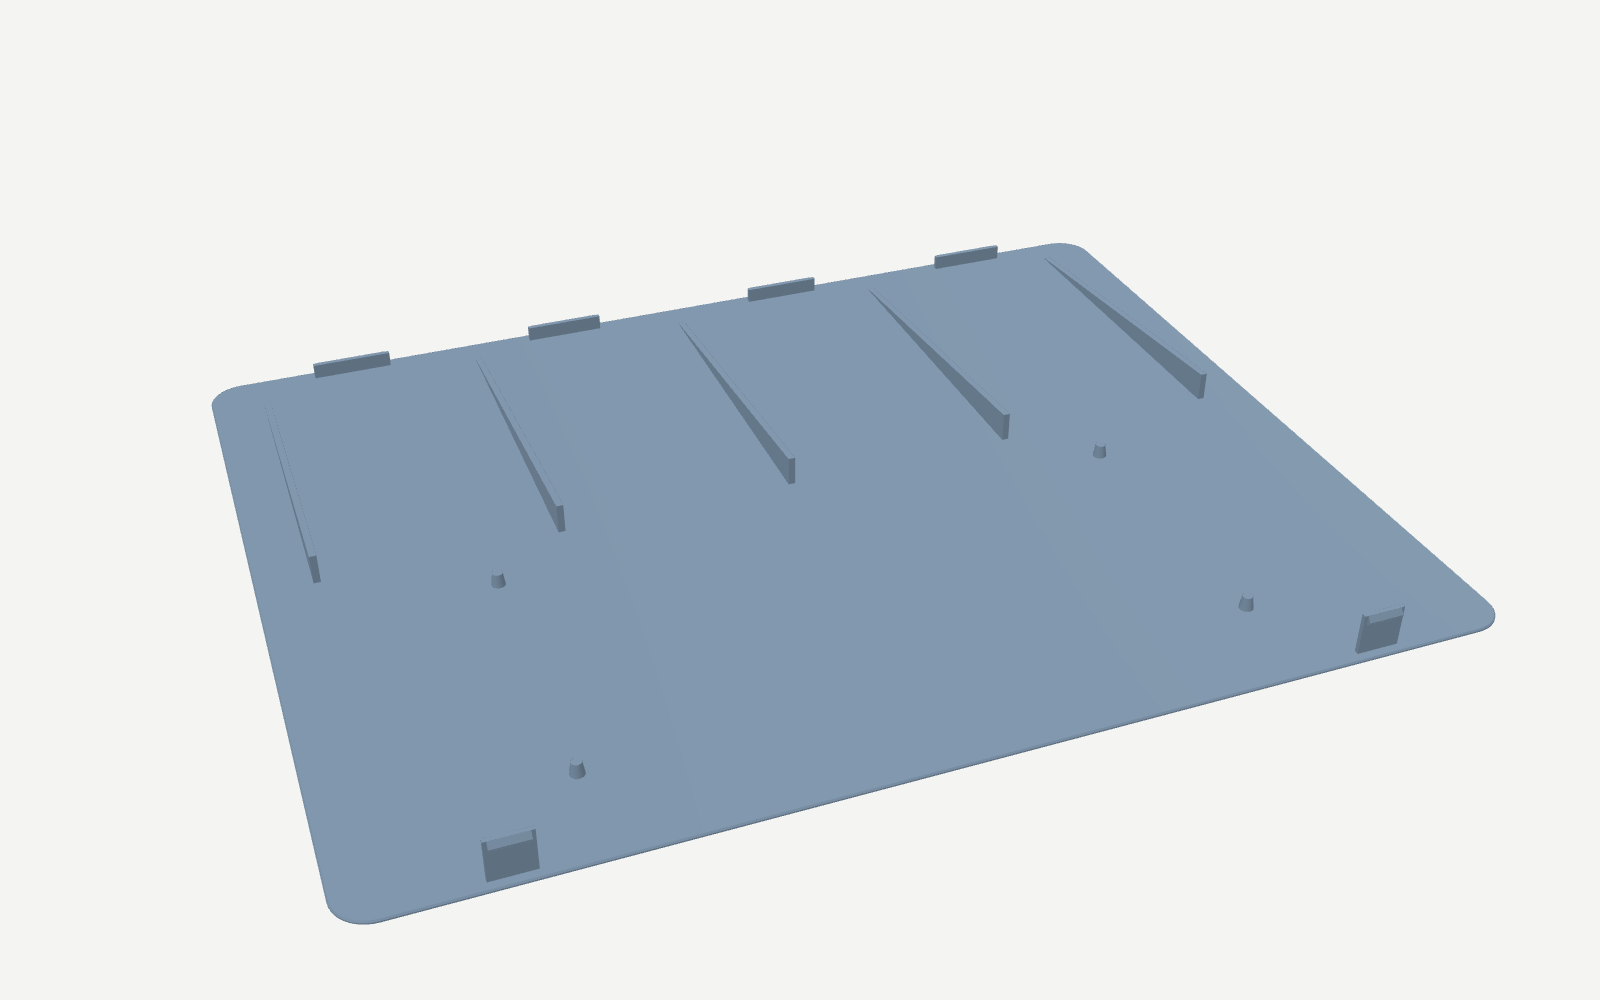
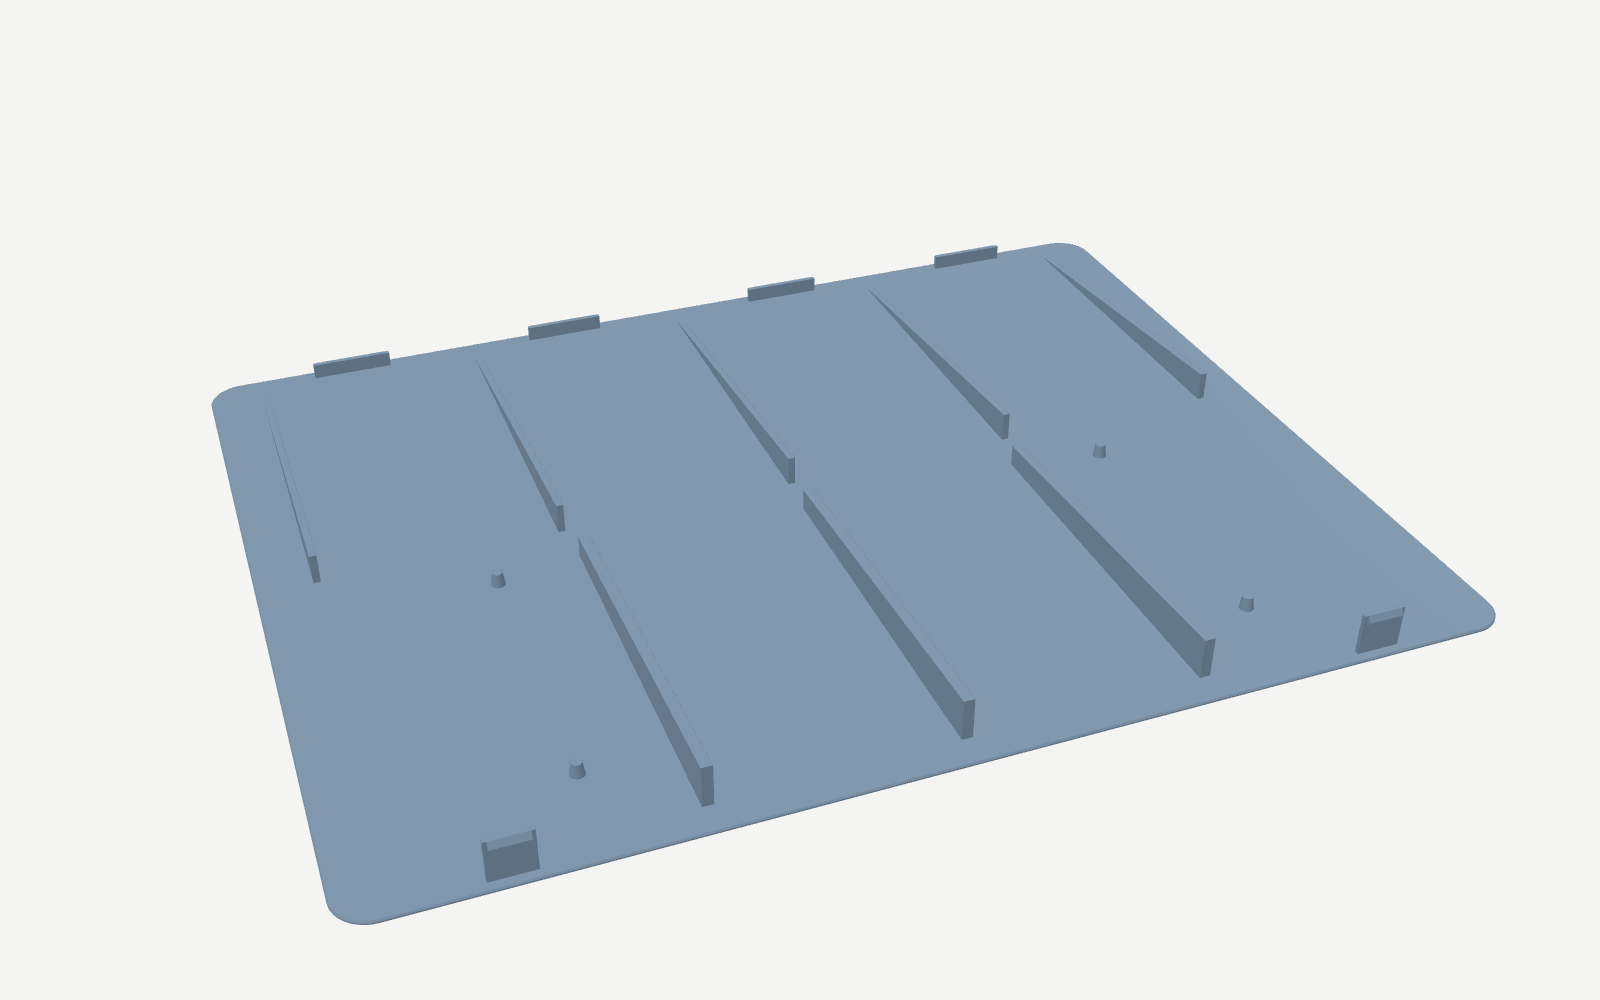
Trackpad lip: opening smaller than the trackpad so it cannot fall out upside down
- The top opening is 0.8 mm smaller than the glass on every side; a 0.8 mm lip (MJF
  minimum) overhangs the glass edge. The glass clears it by 0.25 mm in use, so the lip
  never clamps the glass (Force Touch unaffected); turned over, the trackpad stops on it.
- The trackpad now loads from below like the Joro; its rails moved back to the tray.
  Glass sits 1.05 mm below the deck top; no visible edge gap.
- Front wall kept at full thickness; check.py verifies the lip both ways and its worst-
  case overlap (0.48 mm). 41 checks pass, only the measurement gate remains.

Claude-Session: https://claude.ai/code/session_0125RHN1ndJxSjpgApcjDeFi

diff --git a/cad/deck.py b/cad/deck.py
@@ -255,9 +255,10 @@ def top_case():
         cuts.append(box(x0 - 1, x1 + 1, b["notch"][0], b["notch"][1], P.COVER_T - 1, P.COVER_T + P.NOTCH_H))
     body = fuse(body, [walls] + adds)
     # keep the device spaces clear
-    body = cut(body, [prism(bay(), -1, P.z_kb_top), prism(ring(), -1, P.z_in_top),
+    z_pocket = (P.H - P.LIP_T) if P.TP_LIP > 0 else P.z_in_top      # pocket reaches up to the lip underside
+    body = cut(body, [prism(bay(), -1, P.z_kb_top), prism(ring(), -1, z_pocket),
                       prism(tp_off(P.TP_CLR), P.z_in_top - 0.2, P.H + 1)])   # walls overlap the panel by 0.05
-    body = fuse(body, crush_ribs() + (tp_rail_solids() + holders() if P.LID else []))
+    body = fuse(body, crush_ribs() + (holders() if P.LID else []))
     if P.LID:
         cuts += lid_cuts()
     else:
@@ -353,21 +354,21 @@ def holder_specs():
     gap_b = (P.D - P.WALL) - (kb_tb - (P.z_kb_top - zb1) * tana_k)
     for xc in (80.0, P.W / 2, P.W - 80.0):
         s.append(("spring", "kb", (xc - L_ / 2, P.D - P.WALL), (1, 0), (0, -1), gap_b + pre, zb0, zb1, True))
-    # --- trackpad (dropped in from the top: lead-in at the high end); springs as tall as the side allows
+    # --- trackpad (pushed in from below, glass first, onto the lip: lead-in at the low end)
     L, R, F, B = P.TP_RING
-    z1t = P.z_in_top - 0.2
+    z1t = min(P.z_in_top - 0.2, P.z_tp_top - 1.5)         # stay below the glass layer
     cx = (P.tp_gx0 + P.tp_gx1) / 2
     for yc in (P.tp_gy0 + 30.0, P.tp_gy1 - 30.0):
         z0 = P.tp_bottom(yc - L_ / 2) + 0.5                 # bottom of the side face is highest at the front end
-        s.append(("spring", "tp", (P.tp_gx0 - L, yc - L_ / 2), (0, 1), (1, 0), L + pre, z0, z1t, False))
-        s.append(("spring", "tp", (P.tp_gx1 + R, yc - L_ / 2), (0, 1), (-1, 0), R + pre, z0, z1t, False))
+        s.append(("spring", "tp", (P.tp_gx0 - L, yc - L_ / 2), (0, 1), (1, 0), L + pre, z0, z1t, True))
+        s.append(("spring", "tp", (P.tp_gx1 + R, yc - L_ / 2), (0, 1), (-1, 0), R + pre, z0, z1t, True))
     z0f = P.tp_bottom(P.tp_gy0 - P.tp_lean_f) + 0.5
     lean_lo = (P.z_tp_top - z0f) * tana_t                  # front face sticks out most at its bottom
     z0b = P.tp_bottom(P.tp_gy1) + 0.5
     lean_hi = (P.z_tp_top - z1t) * tana_t                  # back face sticks out most at its top
     for xc in (cx - 45.0, cx + 45.0):
-        s.append(("spring", "tp", (xc - L_ / 2, P.tp_gy0 - F), (1, 0), (0, 1), F - lean_lo + pre, z0f, z1t, False))
-        s.append(("spring", "tp", (xc - L_ / 2, P.tp_gy1 + B), (1, 0), (0, -1), B + lean_hi + pre, z0b, z1t, False))
+        s.append(("spring", "tp", (xc - L_ / 2, P.tp_gy0 - F), (1, 0), (0, 1), F - lean_lo + pre, z0f, z1t, True))
+        s.append(("spring", "tp", (xc - L_ / 2, P.tp_gy1 + B), (1, 0), (0, -1), B + lean_hi + pre, z0b, z1t, True))
     return s
 
 
@@ -465,12 +466,9 @@ def kb_rail_solids():
 
 @lru_cache(None)
 def _tp_rails():
-    if P.LID:   # full-height ribs of the lid, from wall to wall of the pocket, bearing on the tray
-        y0 = P.tp_gy0 - P.TP_RING[2] - 0.3
-        y1 = P.tp_gy1 + P.TP_RING[3] + 0.3
-        r = [rail(x, y0, y1, lambda y: P.tp_bottom(y) - P.TP_PAD, width=3.0, zb=P.COVER_T) for x in P.tp_rails]
-    else:
-        r = [rail(x, P.tp_gy0 + 4, P.tp_gy1 - 4, lambda y: P.tp_bottom(y) - P.TP_PAD) for x in P.tp_rails]
+    """Trackpad rails, carried by the cover / tray (wider on the service tray: they take the clicks)."""
+    w = 3.0 if P.SVC else 2.0
+    r = [rail(x, P.tp_gy0 + 4, P.tp_gy1 - 4, lambda y: P.tp_bottom(y) - P.TP_PAD, width=w) for x in P.tp_rails]
     return tuple(q for q in r if q is not None)
 
 
@@ -480,7 +478,7 @@ def tp_rail_solids():
 
 def rails():
     """Rails carried by the cover/tray."""
-    return kb_rail_solids() + ([] if P.LID else tp_rail_solids())
+    return kb_rail_solids() + tp_rail_solids()
 
 
 def keepers():

diff --git a/cad/check.py b/cad/check.py
@@ -93,6 +93,16 @@ def main():
         line(max(v for _, v in hit) < 0.5, "lid (with the Joro and trackpad inside) swings open about the back edge "
              "without hitting the tray: " + ", ".join(f"{a}deg {v:.1f}" for a, v in hit) + " mm3")
 
+        if P.TP_LIP > 0:
+            print("== trackpad lip (the top opening is smaller than the trackpad)")
+            v0 = overlap(_Pos(0, 0, P.TP_LIP_GAP - 0.05) * tp, top) - overlap(tp, top)
+            v1 = overlap(_Pos(0, 0, P.TP_LIP_GAP + 0.15) * tp, top) - overlap(tp, top)
+            line(v0 < 0.5 < v1, f"glass clears the lip by {P.TP_LIP_GAP} mm in use (no clamping); turned over, the "
+                                f"trackpad stops on the lip ({v1:.0f} mm3 overlap when pushed {P.TP_LIP_GAP + 0.15:.2f} up)")
+            worst = P.TP_LIP - 0.004 * (P.TP_W - 2 * P.TP_LIP) / 2
+            line(worst >= 0.3, f"lip overlaps the glass edge by {P.TP_LIP:.2f} nominal, {worst:.2f} worst case (needs >= 0.3)")
+            note(f"glass sits {P.TP_DROP:.2f} mm below the deck top (lip {P.LIP_T} + play {P.TP_LIP_GAP})")
+
         print("== printed spring fingers (opposing pairs centre each device; nothing to buy)")
         specs = Dk.holder_specs()
         for (kind, dev, o, u, n, r, z0, z1, low), h in zip(specs, Dk.holders()):
@@ -139,8 +149,9 @@ def main():
         kf_len = max(P.kf_x1 - P.kf_x0, P.kf_y1 - P.kf_y0)
         left = P.KEY_CLR - tol * kf_len / 2
         line(left >= 0.15, f"key caps -> opening edge: {P.KEY_CLR:.2f} nominal, {left:.2f} worst case (needs >= 0.15)")
-        left = P.TP_CLR - tol * (P.TP_W + 2 * P.TP_CLR) / 2
-        line(left >= 0.1, f"trackpad -> opening edge: {P.TP_CLR:.2f} nominal, {left:.2f} worst case (needs >= 0.10)")
+        if P.TP_CLR > 0:
+            left = P.TP_CLR - tol * (P.TP_W + 2 * P.TP_CLR) / 2
+            line(left >= 0.1, f"trackpad -> opening edge: {P.TP_CLR:.2f} nominal, {left:.2f} worst case (needs >= 0.10)")
         left = P.KB_CLR - tol * (P.KB_W + 2 * P.KB_CLR) / 2
         line(left >= 0.2, f"Joro -> bay wall: {P.KB_CLR:.2f} nominal, {left:.2f} worst case (needs >= 0.20; springs fill it)")
         left = P.tp_ring_in - tol * (P.TP_W + 2 * P.tp_ring_in) / 2

diff --git a/cad/params.py b/cad/params.py
@@ -53,9 +53,14 @@ WALL = 2.4                           # outer side wall
 COVER_T = 1.6                        # bottom cover plate
 COVER_GAP = 0.5 if SVC else 0.2      # cover <-> wall gap, per side
 KB_PAD = 0.4 if SVC else 0.5         # rail -> Joro gap (service: bare backstop; the spring fingers hold the Joro up)
-TP_PAD = 0.0 if SVC else 0.5         # rail -> trackpad gap (service: trackpad sits directly on the lid's rails)
-TP_DROP = 0.3                        # trackpad glass below the deck top
-TP_CLR = 0.5 if SVC else 0.3         # visible gap glass <-> top opening
+TP_PAD = 0.0 if SVC else 0.5         # rail -> trackpad gap (service: the trackpad rests directly on the tray's rails)
+# service: the top opening is smaller than the trackpad, so a thin lip overhangs the glass edge and the trackpad
+# cannot slide out of the top when the deck is turned over. It is loaded from below; the lip never clamps the glass.
+TP_LIP = 0.8 if SVC else 0.0         # how far the lip overhangs the glass edge
+LIP_T = 0.8                          # lip thickness (MJF minimum wall)
+TP_LIP_GAP = 0.25                    # free play between the glass and the lip underside (no clamping of the glass)
+TP_DROP = (LIP_T + TP_LIP_GAP) if SVC else 0.3   # trackpad glass below the deck top
+TP_CLR = -TP_LIP if SVC else 0.3     # opening offset from the glass outline (negative = lip)
 TP_RING_CLR = 0.5                    # fdm: pocket wall <-> glass outline on all sides
 # service: pocket wall offsets (left, right, front, back); opposing spring fingers on all four sides centre it
 TP_RING = (2.0, 2.0, 2.3, 2.0)                # front +0.3: the tilted front face leans out ~0.25
@@ -155,7 +160,7 @@ z_in_top = H - SKIN                  # underside of the panel (palm area)
 # --- trackpad, channel, seam rib --------------------------------------------------------
 tp_gx0 = (W - TP_W) / 2              # glass outline
 tp_gx1 = tp_gx0 + TP_W
-tp_gy0 = FRONT_MARGIN + TP_CLR
+tp_gy0 = max(FRONT_MARGIN + TP_CLR, WALL + TP_RING[2]) if SVC else FRONT_MARGIN + TP_CLR   # keep the front wall whole
 tp_gy1 = tp_gy0 + tp_top_len
 if SVC:
     _rb = max(TP_RING[3], TP_BACK_PROTRUSION + 1.5)

diff --git a/cad/build.py b/cad/build.py
@@ -69,7 +69,7 @@ ORDER_NOTE = """Joro + Magic Trackpad 主板 - 打印订单说明 / Order notes
 工艺/材料 Process: MJF 尼龙 PA12 (HP) / MJF PA12 nylon. 染黑或本色灰 / Dyed black, or natural grey.
 数量 Qty: 各 1 件 / 1 of each.
 不需要螺纹嵌件、铜螺母、攻牙（设计里没有螺丝）/ No threaded inserts, no tapping (the design uses no screws).
-不要打磨或额外后处理：零件上有 1 mm 的弹片和卡扣 / No sanding or extra post-processing: the parts have 1 mm spring fingers and snap clips.
+不要打磨或额外后处理：零件上有 1 mm 的弹片、卡扣，触控板开口有 0.8 mm 薄边 / No sanding or extra post-processing: 1 mm spring fingers, snap clips and a 0.8 mm lip around the trackpad opening.
 外观面 Cosmetic face: 上壳顶面（有两个大开口的平面）/ the flat top face of top_case (the one with the two large openings).
 包装 Packing: 两件平放，用泡棉或纸板夹住，防止运输中压弯、划伤顶面。寄往澳大利亚。
               Pack both parts flat between foam or cardboard so they cannot bend; the top face must not be scratched. Shipping to Australia.

diff --git a/tools/make_images.py b/tools/make_images.py
@@ -81,9 +81,16 @@ def main(which=None):
         cut_ = Dk.box(sx - 0.1, sx + 30, -2, 30, -1, 25)
         render([(top & cut_, CASE), (cov & cut_, COVER)], os.path.join(IMG, PFX + "snap.png"),
                dict(pos=(sx - 120, 12, 10), target=(sx, 8, 8), ortho=26, up=(0, 0, 1)), size=(1200, 900))
+    def lip():
+        xs = P.tp_gx0 + 40.0                                    # section through the front edge of the trackpad
+        half = Dk.box(xs - 40, xs, -2, 30, -1, 25)
+        render([(top & half, CASE), (cov & half, COVER), (tp & half, TP)], os.path.join(IMG, PFX + "lip.png"),
+               dict(pos=(xs + 300, 12, 14), target=(xs, 12, 14), ortho=16, up=(0, 0, 1)), size=(1400, 900))
     if P.LID:
         jobs["lid"] = lid_open
         jobs["details"] = details
+        if P.TP_LIP > 0:
+            jobs["lip"] = lip
 
     def fits():
         kl, kr = Dk.fit_keyboard()

diff --git a/docs/order_guide.md b/docs/order_guide.md
@@ -55,8 +55,14 @@
   ![snap](img/svc_snap.png)
 - **键盘和触控板怎么固定**：
   - 上壳里有一圈打印出来的弹片（下图橙色），从两侧和前后把设备往中间推。所以设备自动居中，打印误差也被弹片吃掉了。
-  - 键盘：前边靠在隔筋上，左右和后边各有弹片。
-  - 触控板：四边都有弹片，底下直接坐在上壳自带的三条支撑条上，所以玻璃比面板低 0.3 mm。
+  - 键盘：前边靠在隔筋上，左右和后边各有弹片。上面被面板压住，只露出键帽。
+  - 触控板：
+    - 四边都有弹片，底下坐在底盘的三条支撑条上。
+    - 上面的开口比触控板小一圈，留出 0.8 mm 宽的薄边压在玻璃边缘上方（见下面剖面图）。这样整个主板倒过来，触控板也掉不出来。
+    - 平时玻璃和薄边之间留 0.25 mm 间隙，薄边不压玻璃，不影响按压和 Force Touch。
+    - 代价是玻璃比面板低约 1.05 mm（原来是 0.3 mm）；四周看不到缝了，因为玻璃边缘被薄边盖住。
+
+  ![lip](img/svc_lip.png)
 
   ![springs](img/svc_springs.png)
 
@@ -65,25 +71,27 @@
 1. 主板前缘正中有一个手指凹口。手指伸进去，把上壳前沿往上掀，"咔"一声，两个卡扣松开。
 2. 上壳绕后边的挂钩往上翻，翻起来以后往前、往上提，整个拿下来。
 3. **触控板**：
-   - 从上壳下面，在三条支撑条之间用手指往上顶，触控板会从上面的开口出来。
+   - 一手托住拿下来的上壳（正面朝上），另一手从上面的开口按住玻璃往下推，触控板会从上壳下面出来。用托着的手接住它。
    - 弹片有点紧，均匀用力即可。
 4. **键盘**：
-   - 键盘一般被弹片夹在上壳里。把上壳翻过来（面朝下放在软布上），从下面把键盘拿出来。
+   - 键盘一般被弹片夹在上壳里。用同样的方法：从上面按住键盘两端的键帽往下推，或者把上壳翻过来从下面拿出。
    - 也可能留在底盘上，那就直接拿起来。
 
 ### 装回
 
-1. 上壳面朝下放在软布上，把键盘键帽朝下压进键盘槽，让它碰到面板。弹片会把它夹住、推到中间。
-2. 拿底盘：
+1. 上壳面朝下放在软布上。
+2. 把键盘键帽朝下压进键盘槽，让它碰到面板。弹片会把它夹住、推到中间。
+3. 把触控板玻璃朝下压进触控板口袋，直到玻璃碰到开口四周的薄边。弹片同样会把它夹住、推到中间。
+4. 拿底盘：
    1. 先把底盘后边的 4 个挂钩伸进上壳后墙里面的槽。
    2. 再放下前面，按住前缘两侧，听到两声"咔"就是卡好了。
-3. 把整个主板翻回正面。
-4. 把触控板从上面的开口放进去，轻轻往下按，直到它坐到支撑条上。按的时候能感到弹片的阻力，按到底后玻璃比面板略低。
+5. 把整个主板翻回正面。
 
 ## 收到件后先检查
 
 - 上壳顶面平整，没有明显翘曲：放在玻璃桌面上，四角不应该晃。
 - 弹片都完整（键盘槽 7 片，触控板口袋 8 片），用手指拨一下能弹回来。
+- 触控板开口四周的薄边完整，没有缺口。
 - 底盘前面 2 个卡扣、后边 4 个挂钩、4 根定位销都没有断。
 - 先不放设备，空试一次开合：上壳能挂上、能卡住、能掀开。
 
@@ -91,4 +99,4 @@
 
 按上面"装回"的步骤做即可，不需要任何工具或材料。
 
-如果触控板玻璃高度不理想（理想状态是手指从面板滑到玻璃上能感到很轻微的台阶），告诉我实际差多少，下一版改支撑条高度。打印件本身不需要再加垫片。
+装好后，手指从面板滑到触控板上会感到大约 1 mm 的台阶，这是正常的（防止触控板倒过来时掉出来的薄边）。

diff --git a/README.md b/README.md
@@ -1,6 +1,6 @@
 # joropad
 
-Razer Joro + Apple Magic Trackpad（USB-C）组合成的笔记本式主板，用 3D 打印制作。顶面完全水平，只露出键帽；触控板玻璃比面板低 0.3 mm。整个上壳是一个卡扣固定的盖子，掀开就能拿出键盘和触控板去充电。只有两个打印件，不需要螺丝、磁铁、泡棉、胶水等任何额外材料。
+Razer Joro + Apple Magic Trackpad（USB-C）组合成的笔记本式主板，用 3D 打印制作。顶面完全水平，只露出键帽；触控板开口四周有 0.8 mm 的薄边压在玻璃边缘上方，倒过来也掉不出来（玻璃比面板低约 1 mm）。整个上壳是一个卡扣固定的盖子，掀开就能拿出键盘和触控板去充电。只有两个打印件，不需要螺丝、磁铁、泡棉、胶水等任何额外材料。
 
 ![deck](docs/img/svc_hero.png)
 ![open](docs/img/svc_lid_open.png)
